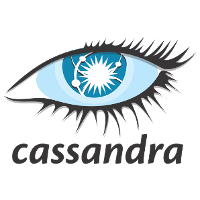
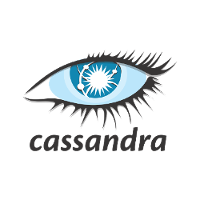
Minor improvements to ui

Changed region(s): [[0.03, 0.18, 0.99, 0.84], [0.81, 0.54, 0.84, 0.57], [0.75, 0.6, 0.78, 0.63]]

diff --git a/styles.css b/styles.css
@@ -5,14 +5,22 @@
 
 html, body {
   font-family: Young !important;
+  color: #454C4C !important;
   height: 100%;
   margin: 0px;
   padding: 0px;
-  color: #454C4C;
   }
 
   p {
     font-size: 1.3em;
+  }
+
+  .kamulist-link {
+    color: #55B6BA;
+  }
+
+  .kamulist-link:hover {
+    color: #76CDD7;
   }
 
 .login-page {
@@ -65,12 +73,12 @@ nav {
   }
 
 nav img {
-  height: 9em;
-  width: 9em;
+  height: 7em;
+  width: 7em;
   display: block;
   margin-left: auto;
   margin-right: auto;
-  margin-top: 0.5em;
+  margin-top: 1em;
   margin-bottom: 2em;
 }
 
@@ -83,8 +91,8 @@ nav img {
   }
 
 .headerImage {
-  padding-top: 0.5em;
-  height: 9em;
+  padding-top: 1em;
+  height: 7em;
 }
 
 /*kamulist.html*/
@@ -114,23 +122,21 @@ md-card {
   }
 
   .button {
-    font-size: 1.5em;
+    font-size: 1em;
     text-decoration: none;
-    padding: 0.2em 0.2em 0.2em 0.2em;
-    height: 1.8em;
+    padding: 0.5em 0.5em 0.5em 0.5em;
     background-color: #76CDD7;
-    color: #FFF;
+    color: #FFFFFF;
     border-radius: 10px;
     border: 0px;
     outline:none;
   }
 
   .button:active {
-    vertical-align: top;
-    padding: 6px 0 0 6px;
-    -webkit-box-shadow: inset 7px 7px 0px 0px #55B6BA;
-    -moz-box-shadow: inset 7px 7px 0px 0px #55B6BA;
-    box-shadow: inset 7px 7px 0px 0px #55B6BA;
+    vertical-align: top
+    -webkit-box-shadow: inset 5px 5px 0px 0px #55B6BA;
+    -moz-box-shadow: inset 5px 5px 0px 0px #55B6BA;
+    box-shadow: inset 5px 5px 0px 0px #55B6BA;
   }
 
   a:hover {
@@ -204,6 +210,7 @@ md-card {
 
   .list-group-item {
     font-size: 1.2em;
+    color: #FFFFFF !important;
     background-color: #76CDD7 !important;
     cursor: default;
     text-decoration: none;
@@ -238,4 +245,8 @@ md-card {
   .md-tab-body {
     overflow: hidden !important;
     height: 20em !important;
+  }
+
+  .md-tab-group {
+    padding-top: 0.5em;
   }

diff --git a/app/templates/kamu.html b/app/templates/kamu.html
@@ -2,7 +2,7 @@
   <h2>{{ kamu.mac }}</h2>
 
 <p>Spark chart</p>
-
+<img height="300px" width="450px">
 <md-tab-group>
   <md-tab>
     <template md-tab-label>Update</template>
@@ -16,7 +16,7 @@
         </select>
       </form>
       <p></p>
-      <a class="button" (click)="updateVersion()">Update</a>
+      <button class="button" (click)="updateVersion()">Update</button>
       <br>
     </template>
   </md-tab>

diff --git a/app/templates/kamulist.html b/app/templates/kamulist.html
@@ -12,7 +12,7 @@
     </thead>
     <tbody>
       <tr *ngFor= "let kamu of kamus">
-        <td><a [routerLink]="['/kamulist/' + kamu.mac ]">{{ kamu.mac }}</a></td>
+        <td><a class="kamulist-link" [routerLink]="['/kamulist/' + kamu.mac ]">{{ kamu.mac }}</a></td>
         <td>{{ kamu.enabled }}</td>
         <td>{{ kamu.swVersion }}</td>
         <td>{{ kamu.activeProfile }}</td>
